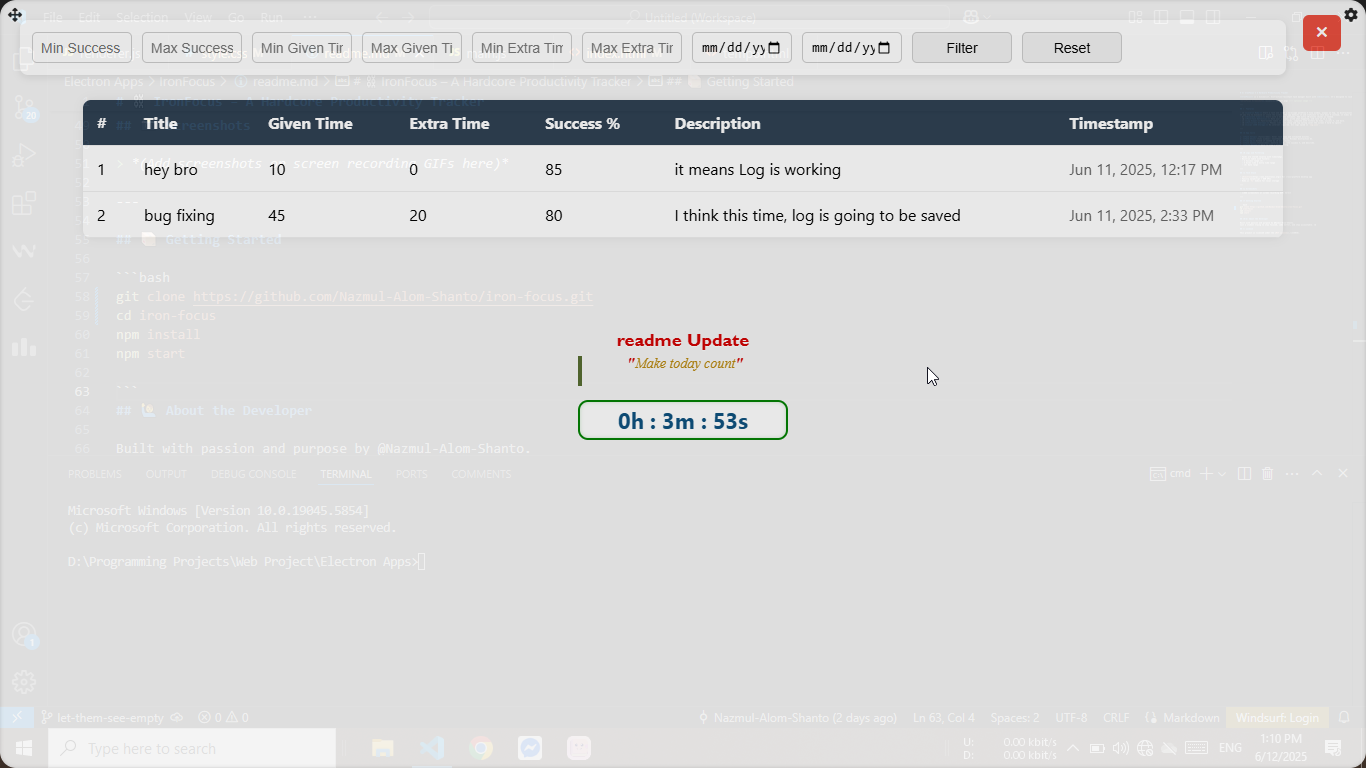
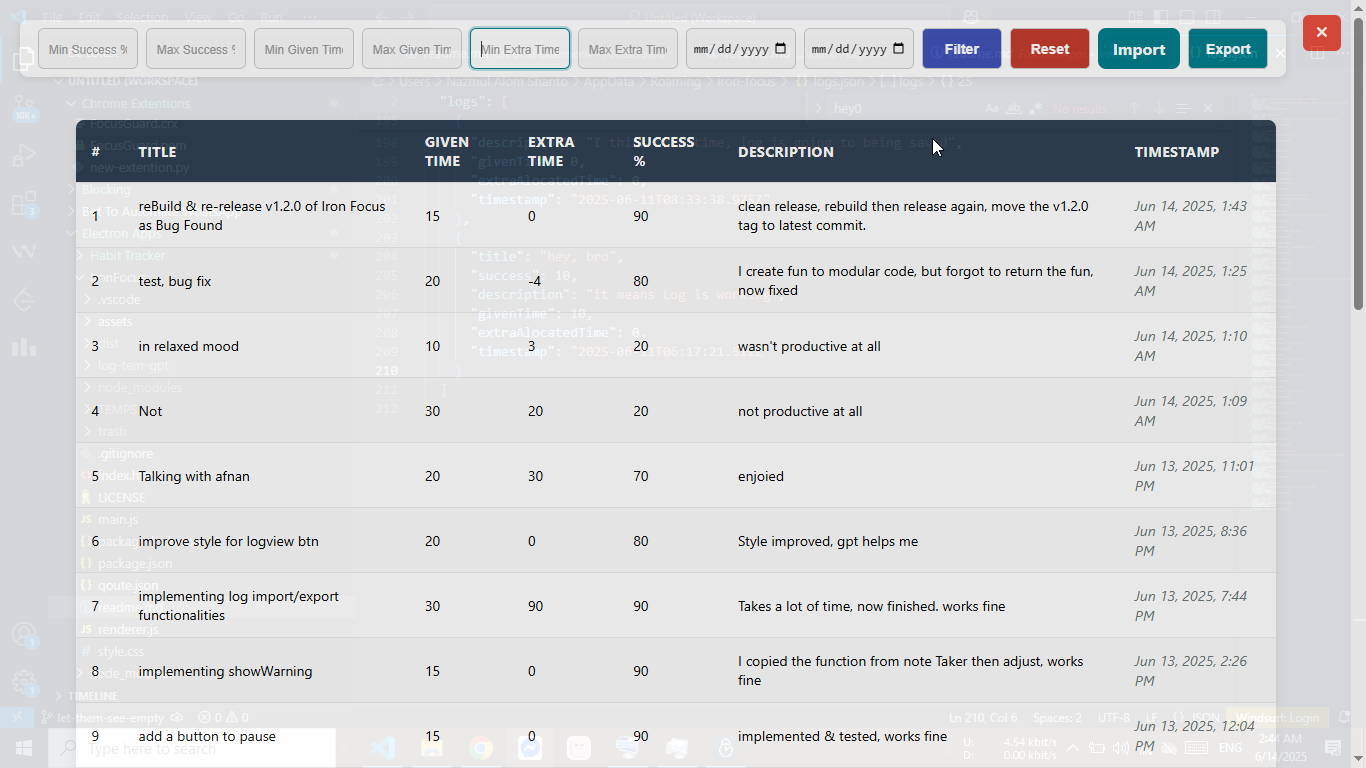
docs(readme): update README and replace one & add one screenshot

diff --git a/readme.md b/readme.md
@@ -61,6 +61,9 @@ If you try to minimize or close the window, the app detects it and *refuses* to 
 > ![View Log](./assets/img/view-log.png)
 > **View Log**
 
+>![Menu Option](./assets/img/menu.png);
+>**Menu**
+
 
 ## 📦 Getting Started
 
